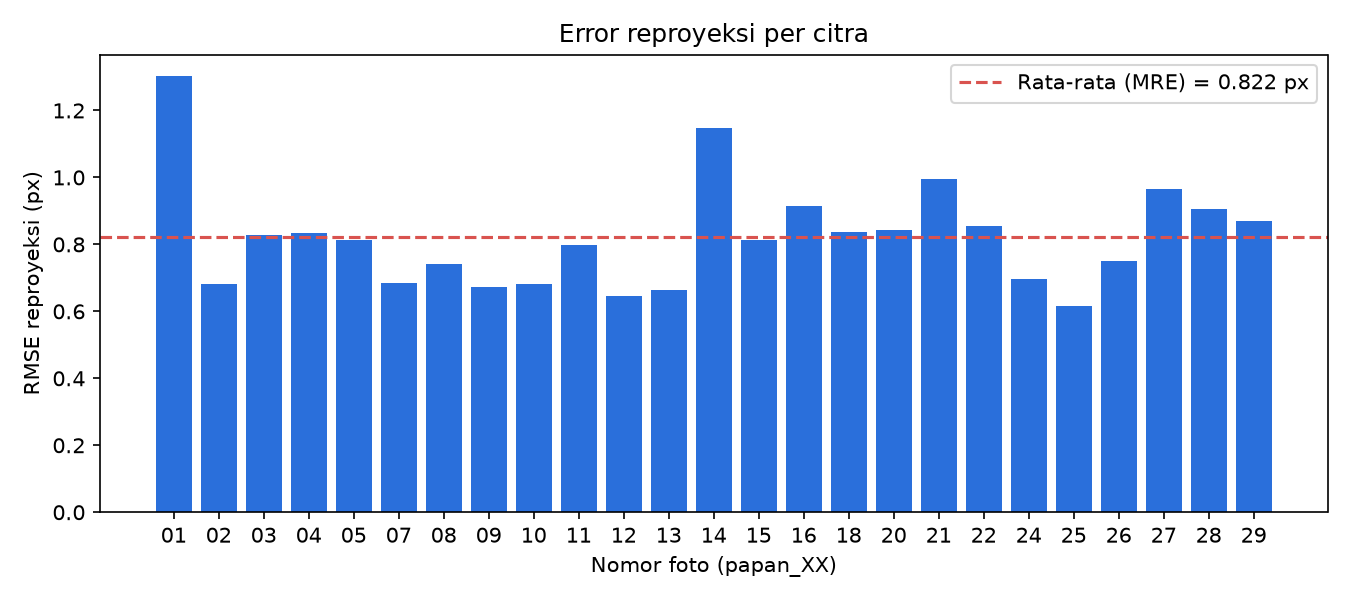
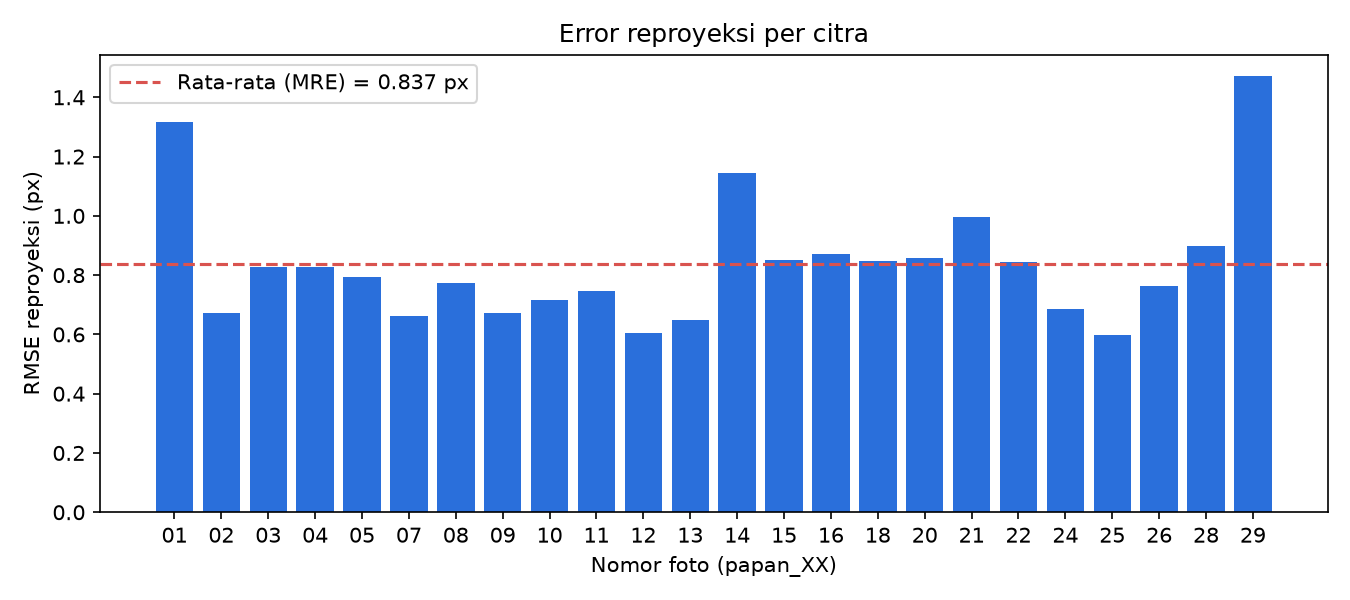
update detektor dan skrip kalibrasi

diff --git a/kalibrasi_kamera/calibrate.py b/kalibrasi_kamera/calibrate.py
@@ -14,6 +14,7 @@ import matplotlib
 matplotlib.use("Agg")
 import matplotlib.pyplot as plt
 
+BASE = os.path.dirname(os.path.abspath(__file__))  # path default dihitung dari lokasi skrip, bukan folder terminal
 CRIT = (cv2.TERM_CRITERIA_EPS + cv2.TERM_CRITERIA_MAX_ITER, 50, 0.0005)
 
 
@@ -38,13 +39,14 @@ def per_image_rmse(objp, imgp, rvec, tvec, K, D):
 
 def main():
     ap = argparse.ArgumentParser()
-    ap.add_argument("--images", default="data/raw/*.jpg")
+    ap.add_argument("--images", default=os.path.join(BASE, "data", "raw", "*"), help="pola file citra (jpg/jpeg/png)")
     ap.add_argument("--square-mm", type=float, default=25.0)
-    ap.add_argument("--outlier-px", type=float, default=1.5,
-                    help="buang citra dengan RMSE > nilai ini lalu kalibrasi ulang (0 = nonaktif)")
+    ap.add_argument("--outlier-px", type=float, default=None,
+                    help="buang citra dengan RMSE > nilai ini lalu kalibrasi ulang (0 = nonaktif). "
+                         "Default: 1.5 px untuk sisi terpanjang 1280 px, diskalakan otomatis dengan resolusi")
     ap.add_argument("--fix-k3", action="store_true",
                     help="kunci k3=0 (lebih stabil bila variasi pose/jarak terbatas)")
-    ap.add_argument("--out", default="reports")
+    ap.add_argument("--out", default=os.path.join(BASE, "reports"))
     a = ap.parse_args()
     pattern = (detector.N, detector.N)  # papan 8x8 kotak -> 7x7 sudut dalam
     for sub in ("detected", "scan"):  # buang sisa hasil jalan sebelumnya
@@ -54,8 +56,10 @@ def main():
     objp = np.zeros((detector.N ** 2, 3), np.float32)
     objp[:, :2] = detector.GRID * a.square_mm
 
-    names, imgpoints, size = [], [], None
-    for f in sorted(glob.glob(a.images)):
+    names, paths, imgpoints, size = [], [], [], None
+    outlier_px = a.outlier_px
+    files = [f for f in sorted(glob.glob(a.images)) if f.lower().endswith((".jpg", ".jpeg", ".png"))]
+    for f in files:
         img = cv2.imread(f)
         gray = cv2.cvtColor(img, cv2.COLOR_BGR2GRAY)
         size = gray.shape[::-1]
@@ -63,11 +67,14 @@ def main():
         ok = c is not None
         print(f"{os.path.basename(f)}: {how if ok else 'gagal'}")
         if ok:
-            names.append(os.path.basename(f)); imgpoints.append(c)
-            vis = img.copy(); cv2.drawChessboardCorners(vis, pattern, c, True)
-            cv2.imwrite(f"{a.out}/detected/{os.path.basename(f)}", cv2.resize(vis, None, fx=0.5, fy=0.5))
-            cv2.imwrite(f"{a.out}/scan/{os.path.basename(f)}", draw_board_scan(img, c, pattern))
-    total = len(glob.glob(a.images))
+            names.append(os.path.basename(f)); paths.append(f); imgpoints.append(c)
+    total = len(files)
+    if not names:
+        raise SystemExit(f"Tidak ada citra yang terbaca/terdeteksi dari: {a.images}\n"
+                         f"(ditemukan {total} berkas). Pastikan foto ada di folder data/raw di samping calibrate.py.")
+    if outlier_px is None:
+        outlier_px = 1.5 * max(size) / 1280.0
+        print(f"Ambang outlier otomatis: {outlier_px:.2f} px (skala resolusi)")
     print(f"\nTerdeteksi: {len(names)}/{total} citra, ukuran {size}")
     if len(names) < 12:
         raise SystemExit("Kurang dari 12 citra valid.")
@@ -82,12 +89,18 @@ def main():
     idx = list(range(len(names)))
     rms, K, D, rv, tv, errs = calibrate(idx)
     dropped = []
-    if a.outlier_px > 0:
+    if outlier_px > 0:
         # buang outlier satu per satu (yang terburuk dulu) selama masih > 12 citra
-        while max(errs) > a.outlier_px and len(idx) > 12:
+        while max(errs) > outlier_px and len(idx) > 12:
             w = int(np.argmax(errs)); dropped.append((names[idx[w]], errs[w])); idx.pop(w)
             rms, K, D, rv, tv, errs = calibrate(idx)
     used = [names[i] for i in idx]
+    # gambar bukti hanya untuk citra yang lolos (bukan outlier)
+    for i in idx:
+        img = cv2.imread(paths[i])
+        vis = img.copy(); cv2.drawChessboardCorners(vis, pattern, imgpoints[i], True)
+        cv2.imwrite(f"{a.out}/detected/{names[i]}", cv2.resize(vis, None, fx=0.5, fy=0.5))
+        cv2.imwrite(f"{a.out}/scan/{names[i]}", draw_board_scan(img, imgpoints[i], pattern))
     mre = float(np.mean(errs))  # rata-rata RMSE per-citra
 
     # Validasi silang: kalibrasi dengan setengah citra, uji error pada setengah lain
@@ -167,8 +180,7 @@ def main():
     fig.savefig(f"{a.out}/figures/cakupan_sudut.png", dpi=150); plt.close(fig)
 
     # ---- Plot 4: sebelum/sesudah undistort pada satu foto
-    pick = used[int(np.argmax(errs))] if False else used[0]
-    img = cv2.imread(f"data/raw/{pick}") if os.path.exists(f"data/raw/{pick}") else cv2.imread(glob.glob(a.images)[0])
+    img = cv2.imread(paths[idx[0]])
     newK, roi = cv2.getOptimalNewCameraMatrix(K, D, size, 1, size)
     dst = cv2.undistort(img, K, D, None, newK)
     both = np.hstack([cv2.resize(img, None, fx=.4, fy=.4), cv2.resize(dst, None, fx=.4, fy=.4)])

diff --git a/kalibrasi_kamera/detector.py b/kalibrasi_kamera/detector.py
@@ -19,13 +19,19 @@ PATS = [(7, 7), (7, 6), (6, 7), (6, 6), (7, 5), (5, 7), (6, 5), (5, 6), (5, 5), 
 
 def _refine_subpix(gray, pts):
     d = np.median(np.linalg.norm(np.diff(pts.reshape(-1, 2)[:N], axis=0), axis=1))
-    w = int(np.clip(d * 0.25, 5, 25))
+    w = int(np.clip(d * 0.25, 5, max(25, 0.02 * max(gray.shape))))  # batas ikut resolusi
     return cv2.cornerSubPix(gray, pts.reshape(-1, 1, 2).astype(np.float32), (w, w), (-1, -1), CRIT)
+
+
+def _scales(gray, targets):
+    """Skala pengecilan agar sisi terpanjang menjadi ~target piksel (independen resolusi)."""
+    L = max(gray.shape)
+    return [min(1.0, t / L) for t in targets]
 
 
 def find_full(gray):
     """Deteksi 7x7 langsung (multi-skala). Mengembalikan (49,1,2) atau None."""
-    for s in (0.4, 0.33, 0.28, 0.25, 0.2):
+    for s in _scales(gray, (512, 422, 358, 320, 256)):
         small = cv2.resize(gray, None, fx=s, fy=s, interpolation=cv2.INTER_AREA)
         for im in (small, cv2.createCLAHE(3, (8, 8)).apply(small), cv2.GaussianBlur(small, (0, 0), 1.2)):
             ok, c = cv2.findChessboardCorners(
@@ -40,7 +46,7 @@ def find_full(gray):
 
 def _find_blocks(gray, maxn=8):
     out = []
-    for s in (0.4, 0.3, 0.22):
+    for s in _scales(gray, (512, 384, 282)):
         small = cv2.resize(gray, None, fx=s, fy=s, interpolation=cv2.INTER_AREA)
         for im in (small, cv2.GaussianBlur(small, (0, 0), 1.2), cv2.createCLAHE(3, (8, 8)).apply(small)):
             for p in PATS:
@@ -123,7 +129,9 @@ def _refine_from_H(gray, H):
 
 
 def find_by_block(gray, min_score=20.0, max_resid=1.5, top=6):
-    gb = cv2.GaussianBlur(gray, (0, 0), 3)
+    k = max(gray.shape) / 1280.0  # ambang piksel diskalakan terhadap resolusi (acuan 1280 px)
+    max_resid *= k
+    gb = cv2.GaussianBlur(gray, (0, 0), 3 * k)
     cands = []
     for p, c in _find_blocks(gray):
         cands += place_block(gb, p, c)

diff --git a/kalibrasi_kamera/README.md b/kalibrasi_kamera/README.md
@@ -1,51 +1,49 @@
 # Laporan Tugas Praktikum Mandiri — Kalibrasi Kamera (Papan Catur)
 
 ## Setup
-- Kamera: smartphone, citra 960×1280 px (portrait)
+- Kamera: smartphone, citra 960×1280 px (portrait; foto dari WhatsApp, sudah terkompres)
 - Papan catur lipat 8×8 kotak → **7×7 sudut dalam** (49 titik/citra). Ukuran kotak diasumsikan **25.0 mm** (hanya memengaruhi tvecs, tidak memengaruhi K, D, maupun error)
-- Foto: 29 → terdeteksi 26 → dipakai 25 (outlier error > 1,5 px dibuang: papan_06.jpg)
-- Deteksi (`detector.py`): `findChessboardCorners/SB` multi-skala; bila gagal (garis lipatan), cari sebagian kisi lalu tentukan posisinya di papan 8×8 dengan pencocokan pola terang/gelap + validasi homografi. Semua sudut diperhalus `cornerSubPix`.
+- Foto: 29 → terdeteksi 26 → dipakai 24 (outlier dibuang: papan_27.jpg, papan_06.jpg)
+- Deteksi (`detector.py`): `findChessboardCorners/SB` pada citra diperkecil (hanya untuk pencarian awal); bila gagal (garis lipatan), cari sebagian kisi lalu tentukan posisinya di papan 8×8 dengan pencocokan pola terang/gelap + validasi homografi. Semua sudut diperhalus `cornerSubPix` pada **resolusi penuh**.
 - Kalibrasi: `cv2.calibrateCamera` (Zhang), model D = [k1,k2,p1,p2,k3]
 
 ## Hasil
 Matriks intrinsik K:
 
 ```
-[[   954.11  0.00    471.13]
- [  0.00    954.89    663.80]
+[[   956.20  0.00    470.12]
+ [  0.00    956.16    657.47]
  [  0.00     0.00     1.00]]
 ```
-fx=954.11, fy=954.89, u0=471.13, v0=663.80 (piksel)
+fx=956.20, fy=956.16, u0=470.12, v0=657.47 (piksel)
 
 Koefisien distorsi D = [k1, k2, p1, p2, k3]:
-`[0.2954, -1.8610, 0.0104, -0.0065, 3.2573]`
+`[0.3118, -1.8877, 0.0098, -0.0070, 3.0422]`
 
 | Metrik | Nilai |
 |---|---|
-| **Mean Reprojection Error** (rata-rata RMSE per citra) | **0.8222 px** |
-| RMS global (`ret` dari calibrateCamera) | 0.8371 px |
-| Validasi silang (kalibrasi 12 citra, uji 13 citra lain) | 1.3969 px |
+| **Mean Reprojection Error** (rata-rata RMSE per citra) | **0.8368 px** |
+| RMS global (`ret` dari calibrateCamera) | 0.8624 px |
+| Error relatif (MRE ÷ sisi terpanjang citra) | 0.065 % |
+| Validasi silang (kalibrasi 12 citra, uji 12 citra lain) | 1.6044 px |
 
-Variasi model dengan k3 dikunci 0 (`--fix-k3`): fx=958.1, fy=958.3, u0=470.6, v0=659.3, D=[0.2199, -0.8918, 0.0096, -0.0067, 0.0], MRE=0.8264 px.
+Variasi model dengan k3 dikunci 0 (`--fix-k3`): fx=959.1, fy=958.7, u0=470.2, v0=654.7, D=[0.2387, -0.973, 0.0093, -0.0068, 0.0], MRE=0.8407 px.
 
 ## Plot dan bukti
-- `reports/figures/koefisien_distorsi.png` — koefisien distorsi
-- `reports/figures/error_reproyeksi.png` — error per citra
-- `reports/figures/distorsi_radial.png` — profil radial + peta perpindahan piksel
-- `reports/figures/cakupan_sudut.png` — sebaran sudut di bingkai
-- `reports/scan/` — hasil scan papan (garis kuning tepi area 8×8)
-- `reports/figures/sebelum_sesudah_undistort.jpg`, `reports/detected/` — bukti deteksi
+- `reports/figures/koefisien_distorsi.png`, `error_reproyeksi.png`, `distorsi_radial.png`, `cakupan_sudut.png`, `sebelum_sesudah_undistort.jpg`
+- `reports/scan/` — hasil scan papan (garis kuning tepi area 8×8); `reports/detected/` — sudut terdeteksi
 
 ## Catatan / keterbatasan
-- Sudut papan hanya menempati bagian tengah bingkai, **tidak menjangkau tepi/pojok**. Suku orde tinggi (k2, k3) tidak terkendala di tepi; nilainya besar (k2≈-1.86, k3≈3.26) dan koreksi di pojok citra tidak dapat dipercaya. Validasi silang (1.40 px) jauh di atas MRE, tanda model distorsi orde tinggi belum stabil. K sendiri stabil (fx≈fy≈955 px pada berbagai pengaturan).
-- 3 foto (17, 19, 23) tidak terdeteksi: papan terlalu miring/kecil atau hasil ekstrapolasi tidak lolos validasi.
-- Error ≈0,8 px wajar untuk foto smartphone terkompres (WhatsApp, 1280×960) dengan papan kayu berkontras rendah dan garis lipatan di tengah.
-- Untuk hasil lebih kuat: foto ulang dengan papan rata, isi seluruh bingkai (termasuk pojok), 15–20 pose, tanpa kompresi.
+- **Error dalam piksel bergantung pada resolusi.** Foto yang dipakai hanya 960×1280 px; foto asli kamera (≈3000 px) akan menghasilkan error piksel ≈3× lebih besar untuk ketelitian relatif yang sama, dan K (fx, fy, u0, v0) ikut membesar sebanding. Bandingkan antar-kalibrasi memakai error relatif (MRE ÷ ukuran citra), bukan piksel mentah.
+- Sudut papan hanya menempati bagian tengah bingkai, **tidak menjangkau tepi/pojok**. Suku orde tinggi (k2, k3) tidak terkendala di tepi; nilainya besar dan koreksi di pojok citra tidak dapat dipercaya. Validasi silang (1.60 px) jauh di atas MRE.
+- Foto yang tidak terdeteksi / dibuang: papan terlalu miring atau kecil, atau hasil ekstrapolasi tidak lolos validasi.
+- Untuk hasil lebih kuat: pakai foto asli beresolusi penuh (bukan kiriman WhatsApp), papan rata, isi seluruh bingkai (termasuk pojok), 15–20 pose.
 
 ## Menjalankan ulang
 ```
 pip install -r requirements.txt
-python calibrate.py                 # default (butuh calibrate.py DAN detector.py di folder yang sama)
+python calibrate.py                 # butuh calibrate.py DAN detector.py di folder yang sama
 python calibrate.py --square-mm 30  # jika ukuran kotak berbeda
 python calibrate.py --fix-k3        # k3 dikunci 0
 ```
+Foto diletakkan di `data/raw/` (jpg/jpeg/png, resolusi berapa pun).
